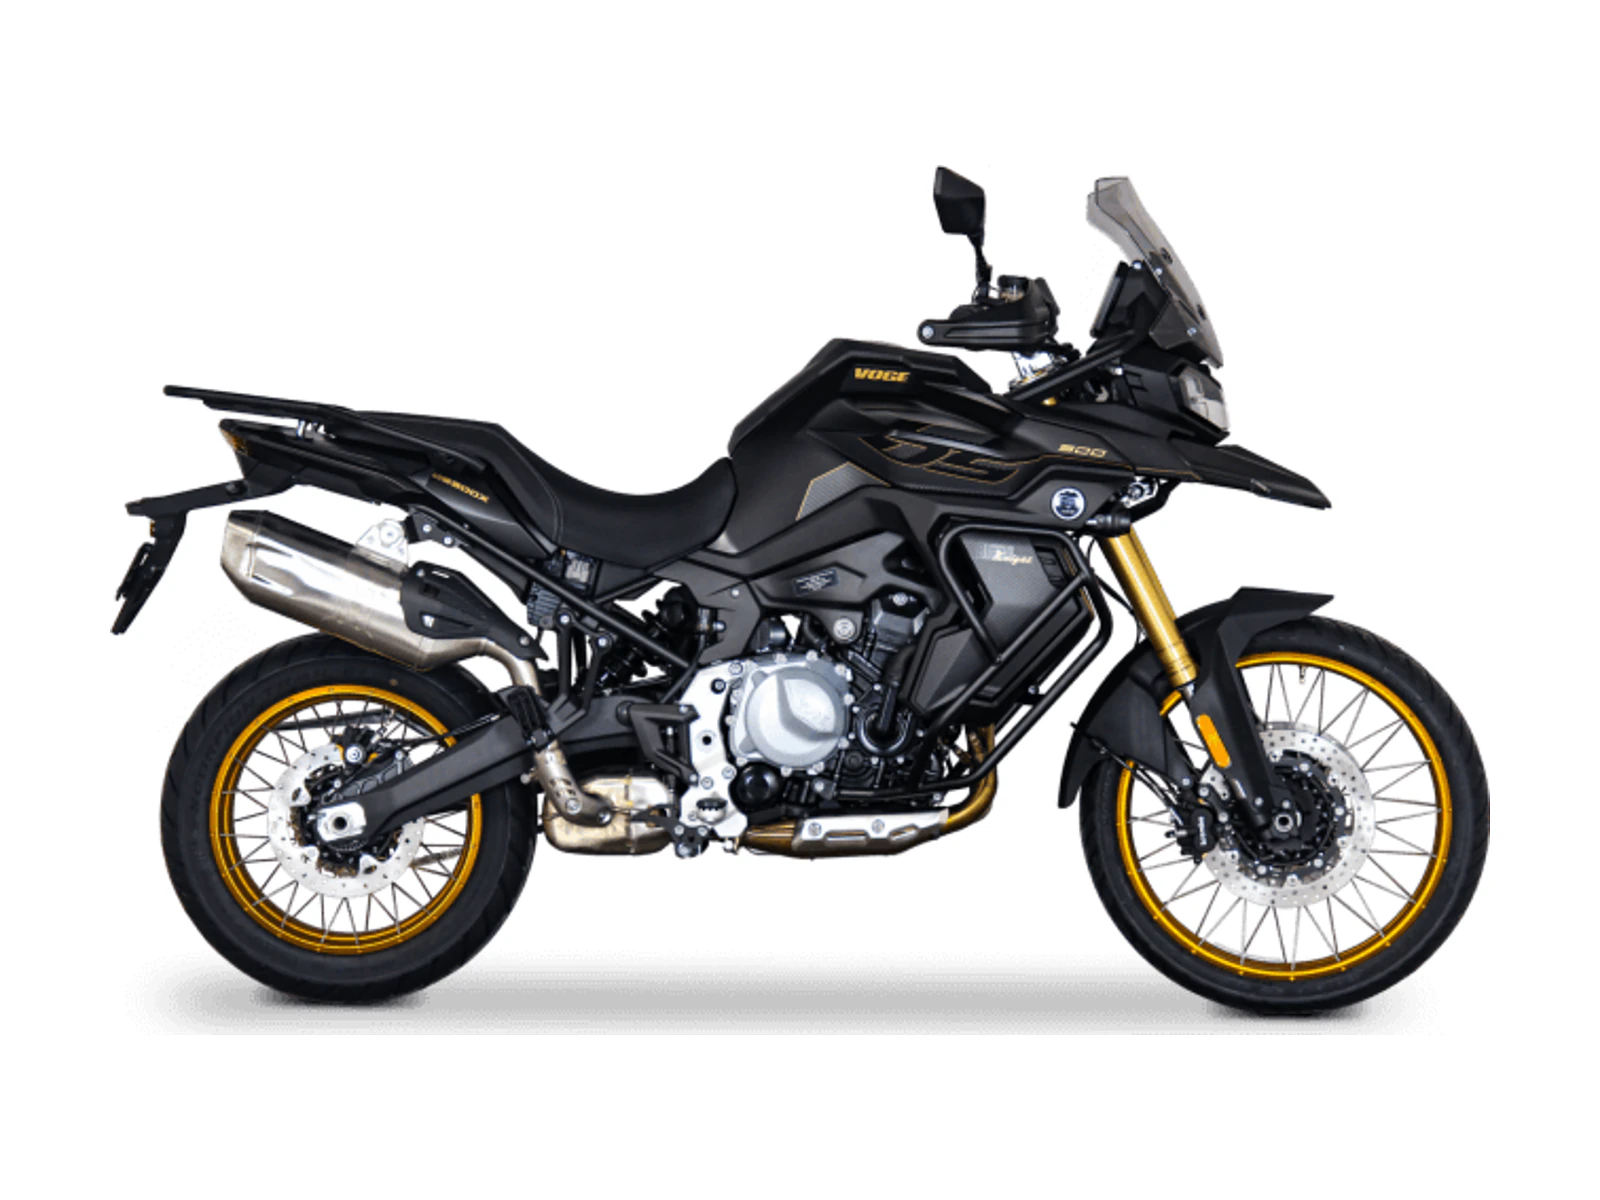
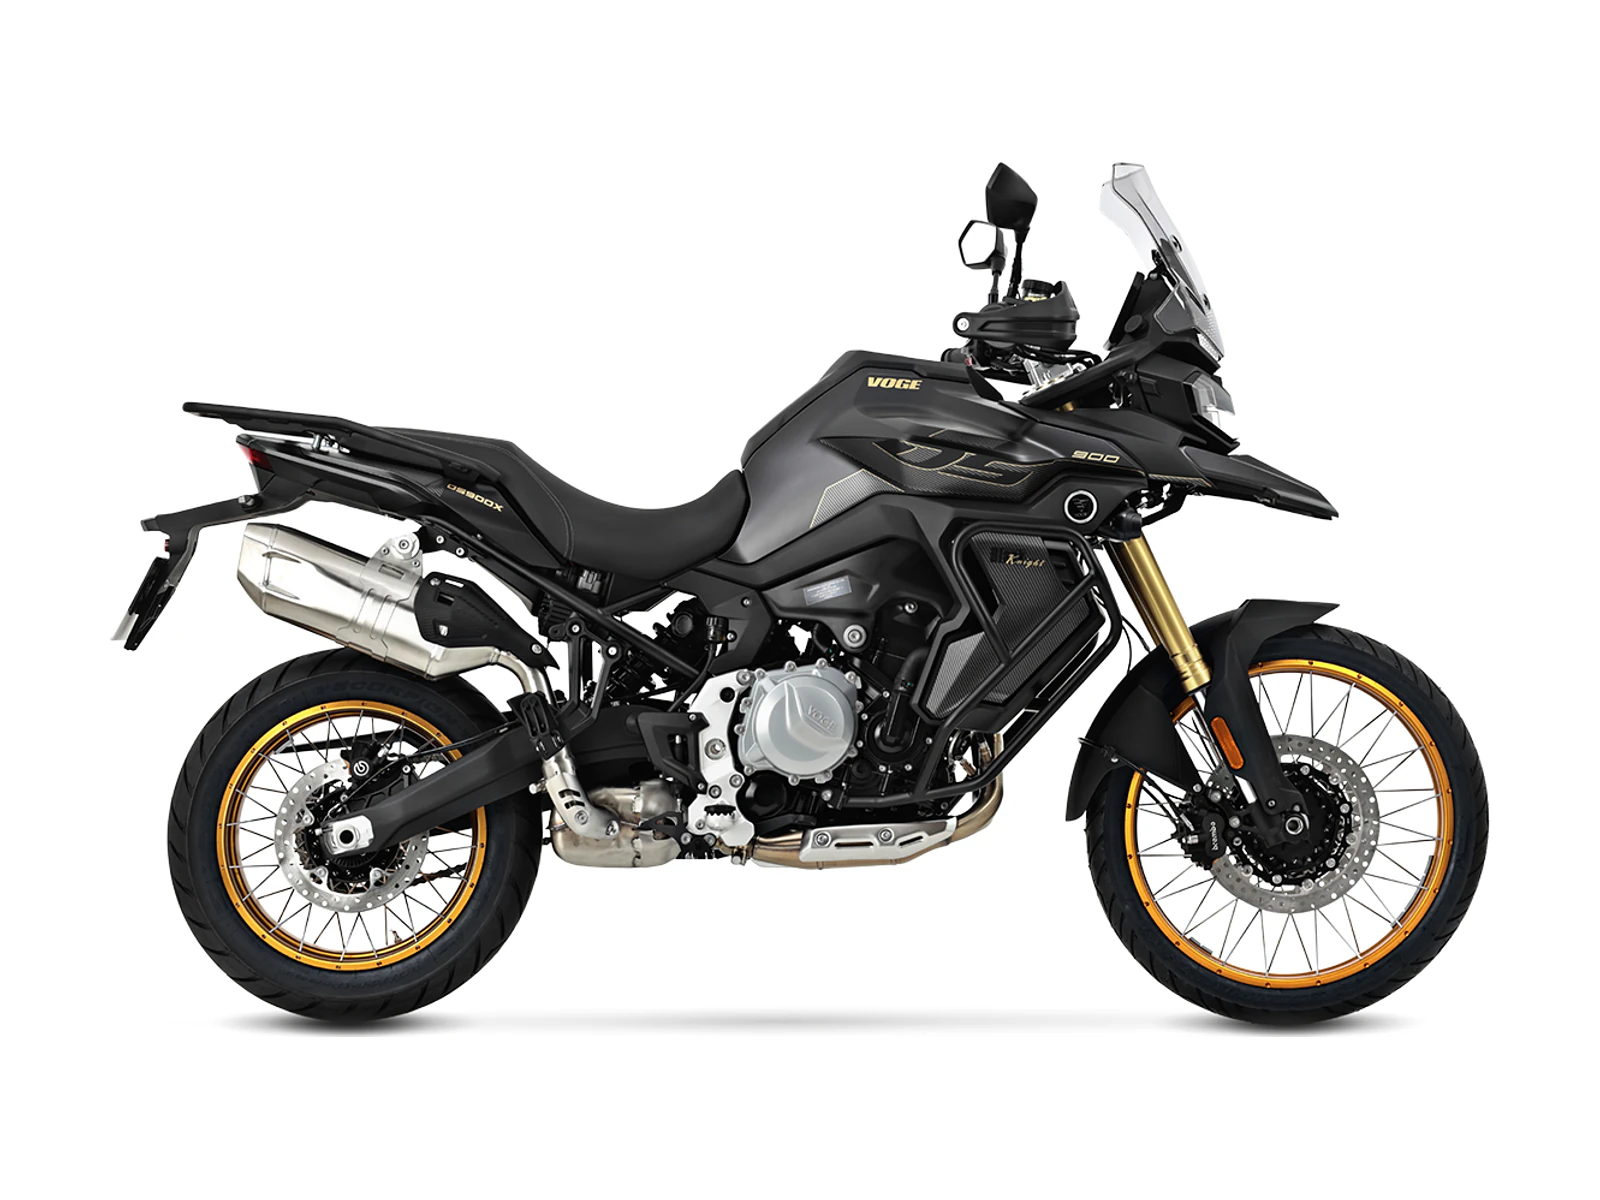
feat(catalogo): colores de fabrica en las cuatro Voge grandes y portadas de prensa nuevas
Portadas segun lo pedido por el cliente: DS 900X negra, DS 800X Rally blanca,
DS 625X beige y DS 525X azul. El KLE 500 estrena la foto de prensa horizontal
en lugar de la de tres cuartos, y el verde abre su galeria con la suya.

Se activa el selector de colores en las cuatro Voge grandes (nueve
combinaciones de fabrica en total). Las fotos que ya habia se reparten en la
carpeta del color que realmente muestran, para que al elegir un color nunca
aparezca una moto de otro:

- DS 900X  negro (+ la unidad negra del showroom) / gris azul / gris verde
- DS 800X  blanco azul / negro (+ la unidad negra del showroom)
- DS 625X  beige (+ la beige en el desierto) / negra
- DS 525X  azul (+ el piloto sobre la azul) / amarilla (+ la del showroom) / negra

Se retira la foto de accion de la DS 800X: la moto que sale es amarilla, un
color que no esta entre los dos que vende el concesionario. Tambien se va la
primera foto de la DS 625X, que duplicaba exactamente la portada.

MotoCard deja de decidir por photoCount y pregunta si hay foto real: los
colores de proximo arribo solo traen la foto de prensa sobre blanco, que ya
es la portada, y con photoCount 0 el crossfade del hover apuntaba a una ruta
inexistente.

Changed region(s): [[0.0625, 0.1233, 0.9375, 0.8633]]

diff --git a/src/data/motorcycles.ts b/src/data/motorcycles.ts
@@ -148,6 +148,7 @@ export const motorcycles: Motorcycle[] = [
         name: "Metallic Bluish Green",
         swatch: "#2C3E3B",
         photoCount: 10,
+        lead: "/images/catalog/kawasaki-kle-500-verde.webp",
       },
     ],
   },
@@ -229,10 +230,33 @@ export const motorcycles: Motorcycle[] = [
       "Bicilíndrico de 895 cc y 94 hp: el mismo bloque que fabrica Loncin para el BMW F 900 GS",
       "Tornillería y despieces compatibles con BMW, a una fracción del precio",
       "825 mm de altura de asiento, la más accesible de la gama grande",
-      "Edición Dark Knight en negro con llantas de radios doradas",
+      "Tres combinaciones de color de fábrica, todas con llantas de radios doradas",
     ],
-    specs: { power: "94 hp", transmission: "Sincrónica", gears: "6", cylinders: "2 cilindros", color: "Negro (Dark Knight)", seatHeight: "825 mm", weight: "215 kg" },
+    specs: { power: "94 hp", transmission: "Sincrónica", gears: "6", cylinders: "2 cilindros", color: "Negro · Gris Azul · Gris Verde", seatHeight: "825 mm", weight: "215 kg" },
     photoCount: 1,
+    colorways: [
+      {
+        id: "negro",
+        name: "Negro",
+        swatch: "#16181A",
+        photoCount: 1,
+        lead: "/images/catalog/voge-ds-900x.webp",
+      },
+      {
+        id: "gris-azul",
+        name: "Gris Azul",
+        swatch: "linear-gradient(135deg, #E8EAEC 50%, #1F4E9C 50%)",
+        photoCount: 0,
+        lead: "/images/catalog/voge-ds-900x-gris-azul.webp",
+      },
+      {
+        id: "gris-verde",
+        name: "Gris Verde",
+        swatch: "linear-gradient(135deg, #D9DCDE 50%, #B4D435 50%)",
+        photoCount: 0,
+        lead: "/images/catalog/voge-ds-900x-gris-verde.webp",
+      },
+    ],
   },
   {
     slug: "voge-ds-800x-rally",
@@ -250,8 +274,24 @@ export const motorcycles: Motorcycle[] = [
       "850 mm de asiento y cotas de rally: la más off-road de la gama DS",
       "213 kg, doce menos que la DS 900X pese a la misma potencia",
     ],
-    specs: { power: "94 hp", transmission: "Sincrónica", gears: "6", cylinders: "2 cilindros", color: "Negro", seatHeight: "850 mm", weight: "213 kg" },
-    photoCount: 2,
+    specs: { power: "94 hp", transmission: "Sincrónica", gears: "6", cylinders: "2 cilindros", color: "Blanco Azul · Negro", seatHeight: "850 mm", weight: "213 kg" },
+    photoCount: 0,
+    colorways: [
+      {
+        id: "blanco-azul",
+        name: "Blanco Azul",
+        swatch: "linear-gradient(135deg, #F2F4F6 50%, #1B3D7A 50%)",
+        photoCount: 0,
+        lead: "/images/catalog/voge-ds-800x-rally.webp",
+      },
+      {
+        id: "negro",
+        name: "Negro",
+        swatch: "#16181A",
+        photoCount: 1,
+        lead: "/images/catalog/voge-ds-800x-rally-negro.webp",
+      },
+    ],
   },
   {
     slug: "voge-ds-625x",
@@ -269,8 +309,24 @@ export const motorcycles: Motorcycle[] = [
       "Dos modos de manejo, Eco y Sport, con ABS y control de tracción conmutables",
       "191 kg, la más ligera de las bicilíndricas de la gama",
     ],
-    specs: { power: "63 hp", transmission: "Sincrónica", gears: "6", cylinders: "2 cilindros", color: "Arena", seatHeight: "835 mm", weight: "191 kg" },
-    photoCount: 2,
+    specs: { power: "63 hp", transmission: "Sincrónica", gears: "6", cylinders: "2 cilindros", color: "Beige · Negra", seatHeight: "835 mm", weight: "191 kg" },
+    photoCount: 1,
+    colorways: [
+      {
+        id: "beige",
+        name: "Beige",
+        swatch: "#E5C9A6",
+        photoCount: 1,
+        lead: "/images/catalog/voge-ds-625x.webp",
+      },
+      {
+        id: "negra",
+        name: "Negra",
+        swatch: "#16181A",
+        photoCount: 0,
+        lead: "/images/catalog/voge-ds-625x-negra.webp",
+      },
+    ],
   },
   {
     slug: "voge-ds-525x",
@@ -288,8 +344,31 @@ export const motorcycles: Motorcycle[] = [
       "ABS Bosch desconectable para salir del asfalto sin pelear con la moto",
       "810 mm de asiento: pies en el suelo con toda la pinta de una trail grande",
     ],
-    specs: { power: "47 hp", transmission: "Sincrónica", gears: "6", cylinders: "2 cilindros", color: "Plateado", seatHeight: "810 mm", weight: "206 kg" },
-    photoCount: 2,
+    specs: { power: "47 hp", transmission: "Sincrónica", gears: "6", cylinders: "2 cilindros", color: "Azul · Amarilla · Negra", seatHeight: "810 mm", weight: "206 kg" },
+    photoCount: 1,
+    colorways: [
+      {
+        id: "azul",
+        name: "Azul",
+        swatch: "linear-gradient(135deg, #DCE0E4 50%, #1F5BB5 50%)",
+        photoCount: 1,
+        lead: "/images/catalog/voge-ds-525x.webp",
+      },
+      {
+        id: "amarilla",
+        name: "Amarilla",
+        swatch: "linear-gradient(135deg, #D7DADD 50%, #E8C21C 50%)",
+        photoCount: 1,
+        lead: "/images/catalog/voge-ds-525x-amarilla.webp",
+      },
+      {
+        id: "negra",
+        name: "Negra",
+        swatch: "#16181A",
+        photoCount: 0,
+        lead: "/images/catalog/voge-ds-525x-negra.webp",
+      },
+    ],
   },
   {
     slug: "voge-ds-300x",

diff --git a/src/components/MotoCard.tsx b/src/components/MotoCard.tsx
@@ -6,12 +6,14 @@ import { withBasePath } from "@/lib/base-path";
 import { motoPhotoPaths, type Motorcycle } from "@/data/motorcycles";
 
 export default function MotoCard({ moto }: { moto: Motorcycle }) {
-  // Unidades físicas en showroom con fotos reales propias: al hover en
-  // desktop la portada oficial hace crossfade a la unidad real.
-  const hasRealPhotos = moto.availability === "en-stock" && moto.photoCount > 1;
   // Con colorways la primera foto cuelga de la subcarpeta del color, no de la
   // raíz del modelo — de ahí que la ruta salga del helper y no se arme aquí.
+  // Puede no haber ninguna: los colores de próximo arribo solo tienen la foto
+  // de prensa sobre blanco, que ya es la portada.
   const realPhoto = motoPhotoPaths(moto)[0];
+  // Unidades físicas en showroom con fotos reales propias: al hover en
+  // desktop la portada oficial hace crossfade a la unidad real.
+  const hasRealPhotos = moto.availability === "en-stock" && Boolean(realPhoto);
 
   return (
     <TiltCard>
